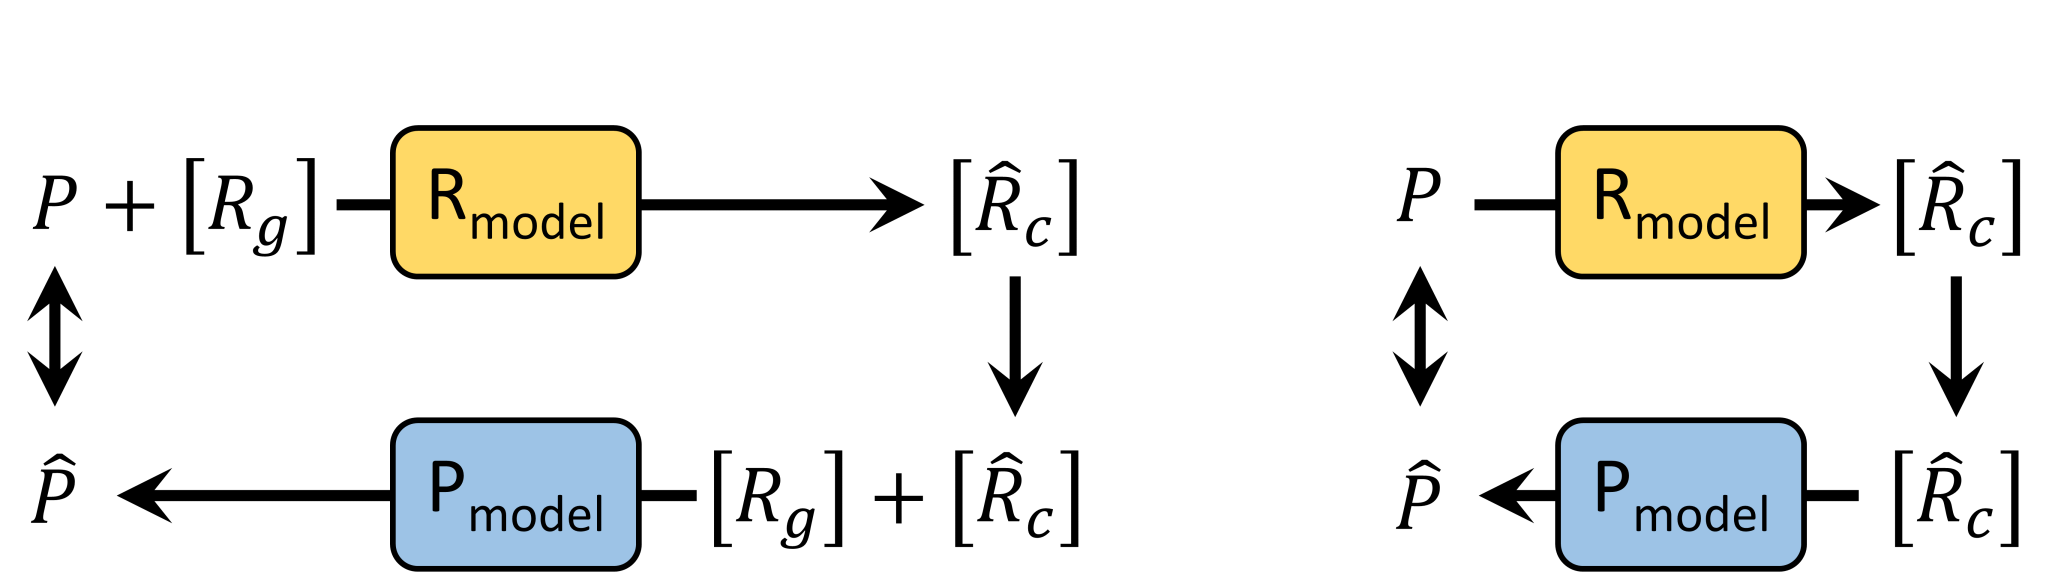
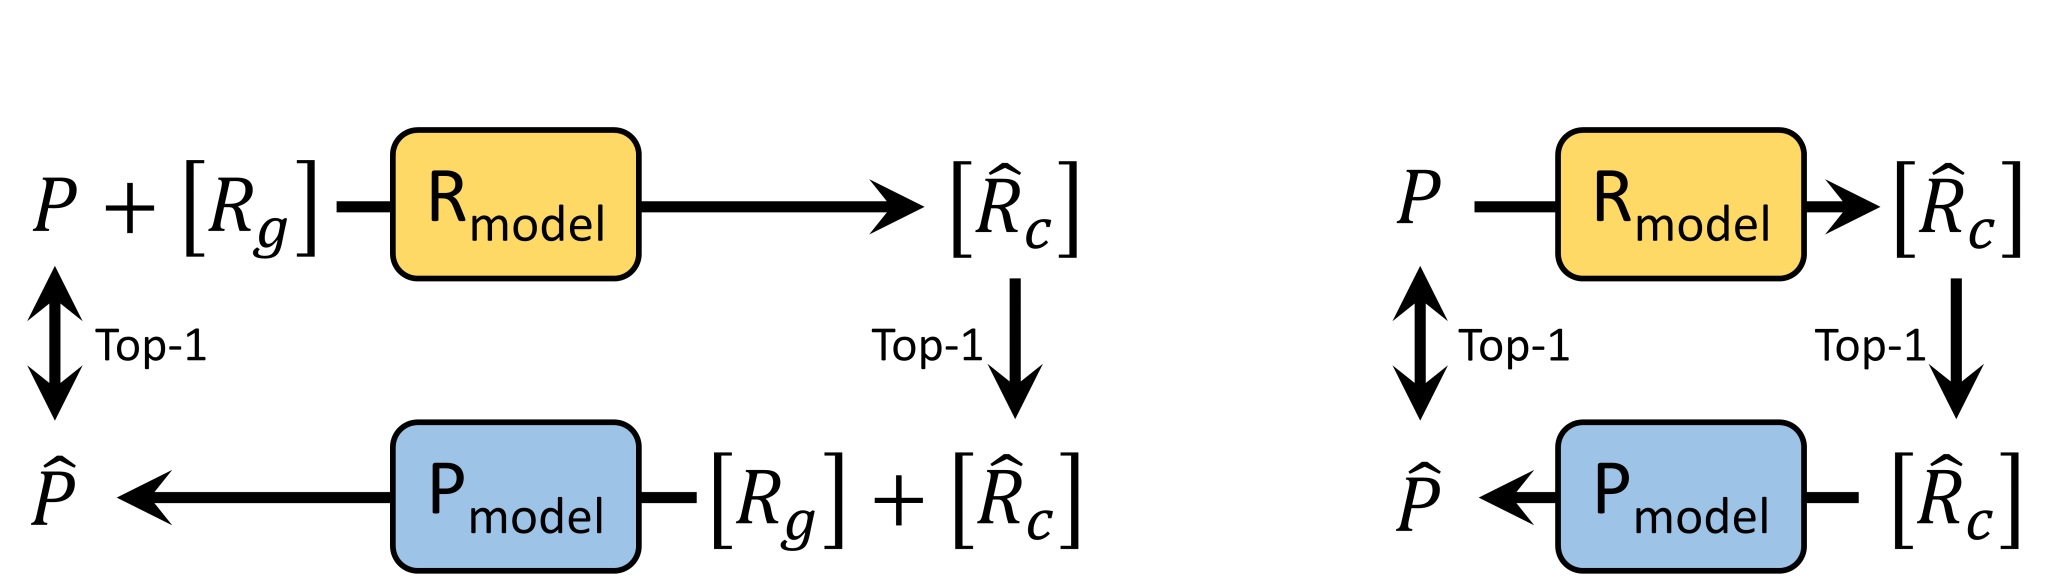
added human experiment data for fig6 and updated roundtrip diagram for fig3

diff --git a/figures/fig3/fig3.py b/figures/fig3/fig3.py
@@ -105,7 +105,7 @@ def plot_one_table(ax, mode, data):
     ax.legend(fontsize=TICK_FONTSIZE, ncol=N_LEGEND_COLS, **BBOXES[mode])
     
     if 'Roundtrip' in title:
-        diagram = image.imread(os.path.join(FILE_DIR, 'diagram_roundtrip.png'))
+        diagram = image.imread(os.path.join(FILE_DIR, 'roundtrip_diagram.png'))
         diagram_box = OffsetImage(diagram, zoom=0.23333)
         diagram_ab = AnnotationBbox(diagram_box, frameon=True, xy=(10.5, 0.487))
         ax.add_artist(diagram_ab)
